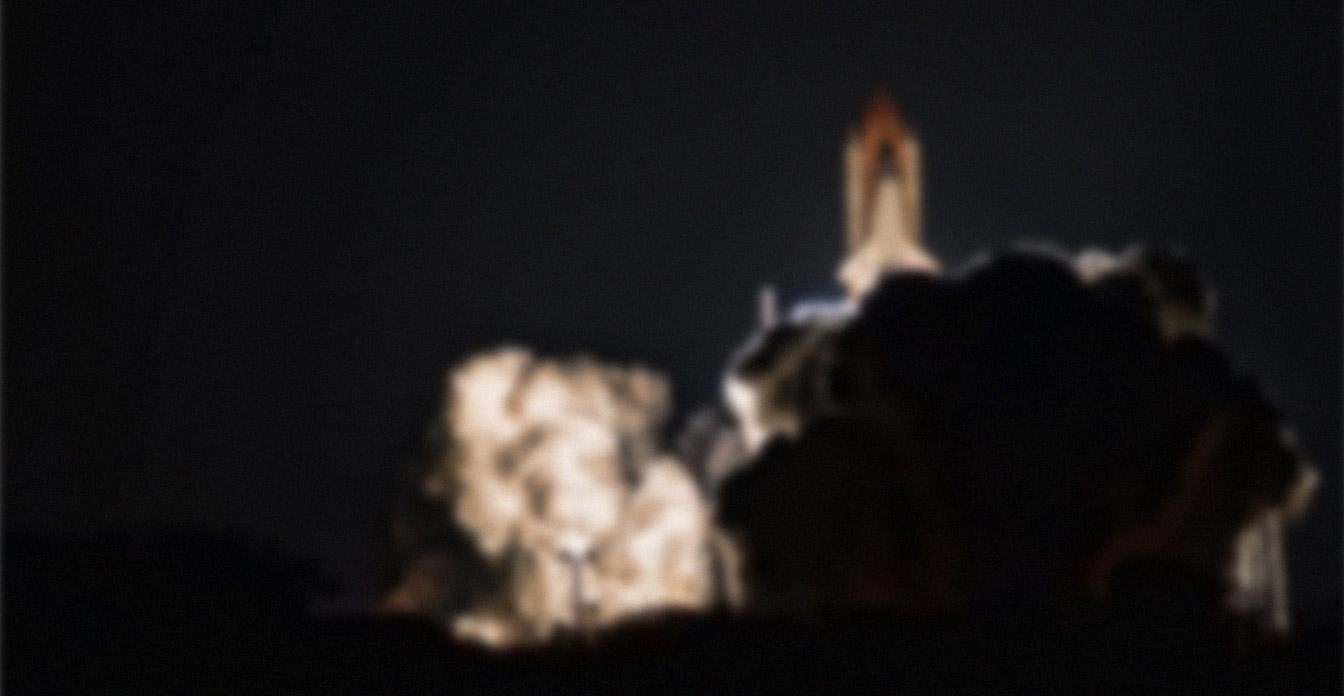
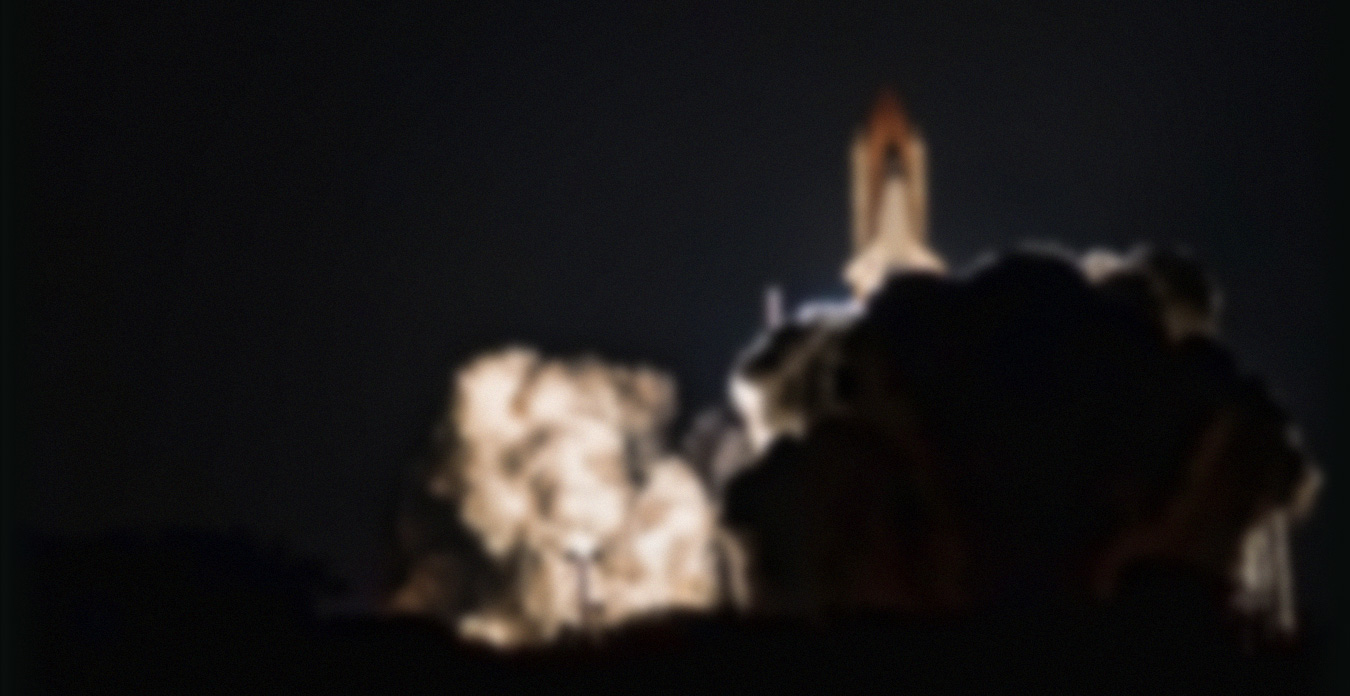
background image teaser thankyou

diff --git a/app/assets/stylesheets/modules/boxes/teaser.scss b/app/assets/stylesheets/modules/boxes/teaser.scss
@@ -13,6 +13,12 @@
 	}
 	&.teaser_thankyou {
       @include background-image(image-url("bg_teaser_thankyou.jpg"));
+      background-repeat:no-repeat;
+      background-color: #060c0b;
+      @media screen and (min-width: 1790px) {
+		 	background-size: auto;
+
+	}
     }
 	.content {
 		margin-left: 0px;
